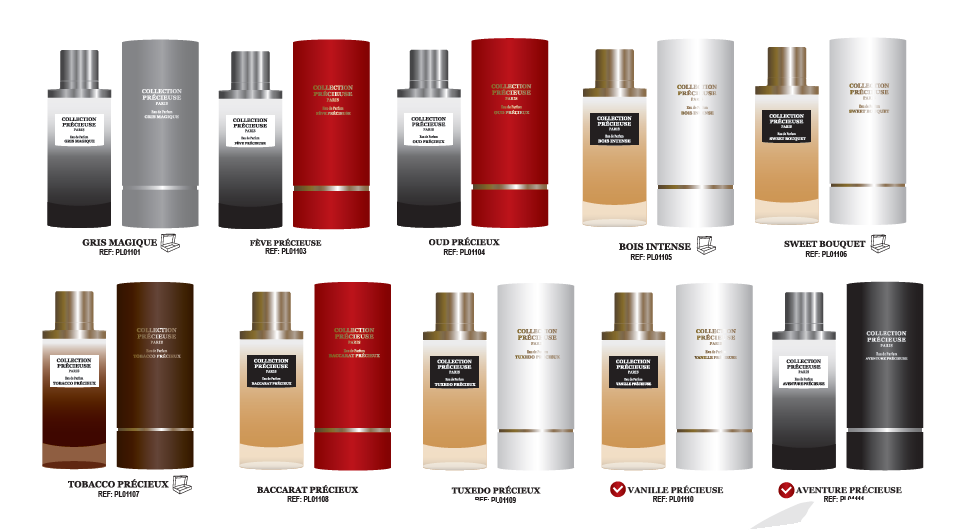
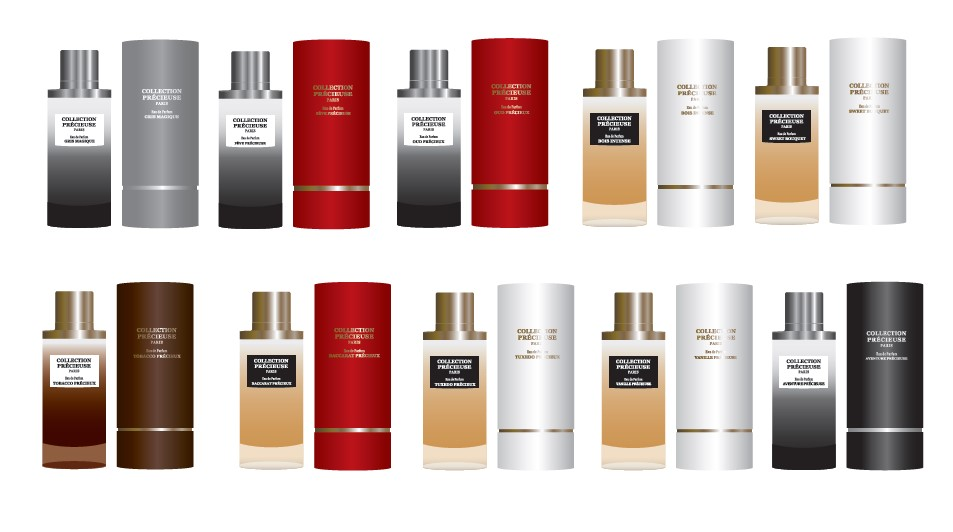
photonew

diff --git a/public/style.css b/public/style.css
@@ -21,6 +21,10 @@
   display: flex;
   justify-content: center;
 }
+.glob50ml {
+  display: flex;
+  justify-content: space-between;
+}
 .ajoutprodtitre {
   display: flex;
   justify-content: center;
@@ -51,8 +55,8 @@
 }
 .surplus1 {
   margin-right: 40px;
-  width: 300px;
-  height: 300px;
+  width: 200px;
+  height: 200px;
 }
 .modal-body {
   background-color: white;
@@ -89,7 +93,16 @@
   height: 500px;
 }
 .surplus3 {
-  margin-left: 80px;
+  margin-left: 50px;
+}
+.logocof {
+  width: 50px;
+  height: 50px;
+}
+.card-bodycof {
+  display: flex;
+  justify-content: space-around;
+  margin-top: 20px;
 }
 .surplus4 {
   display: flex;
